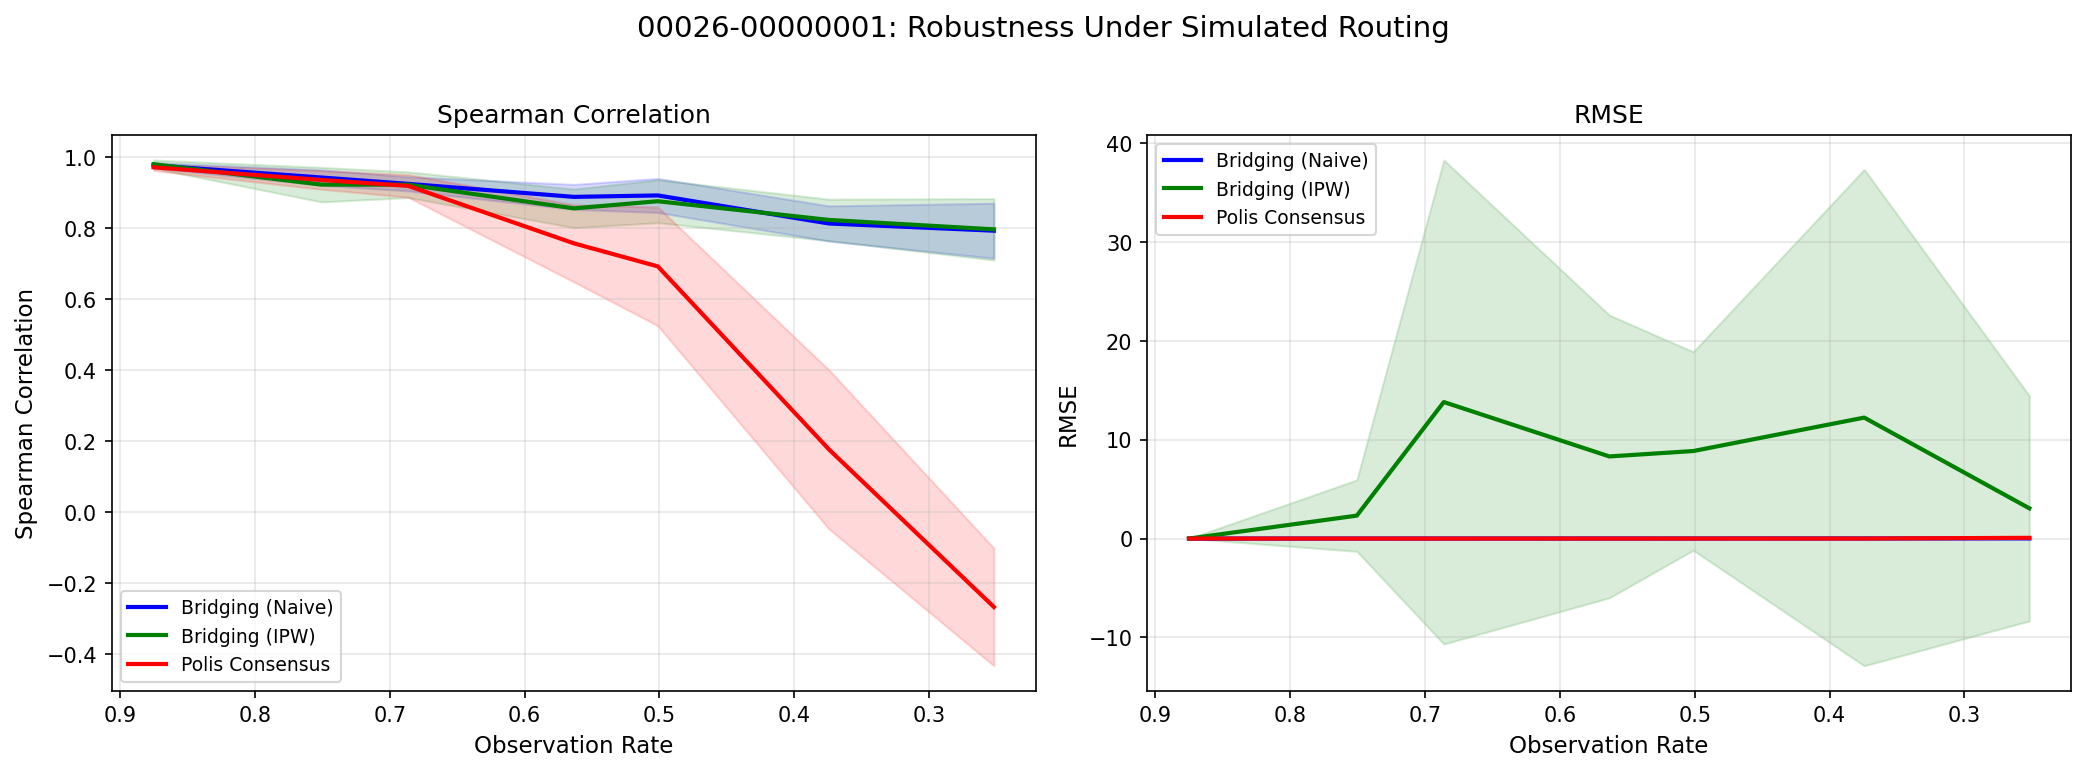
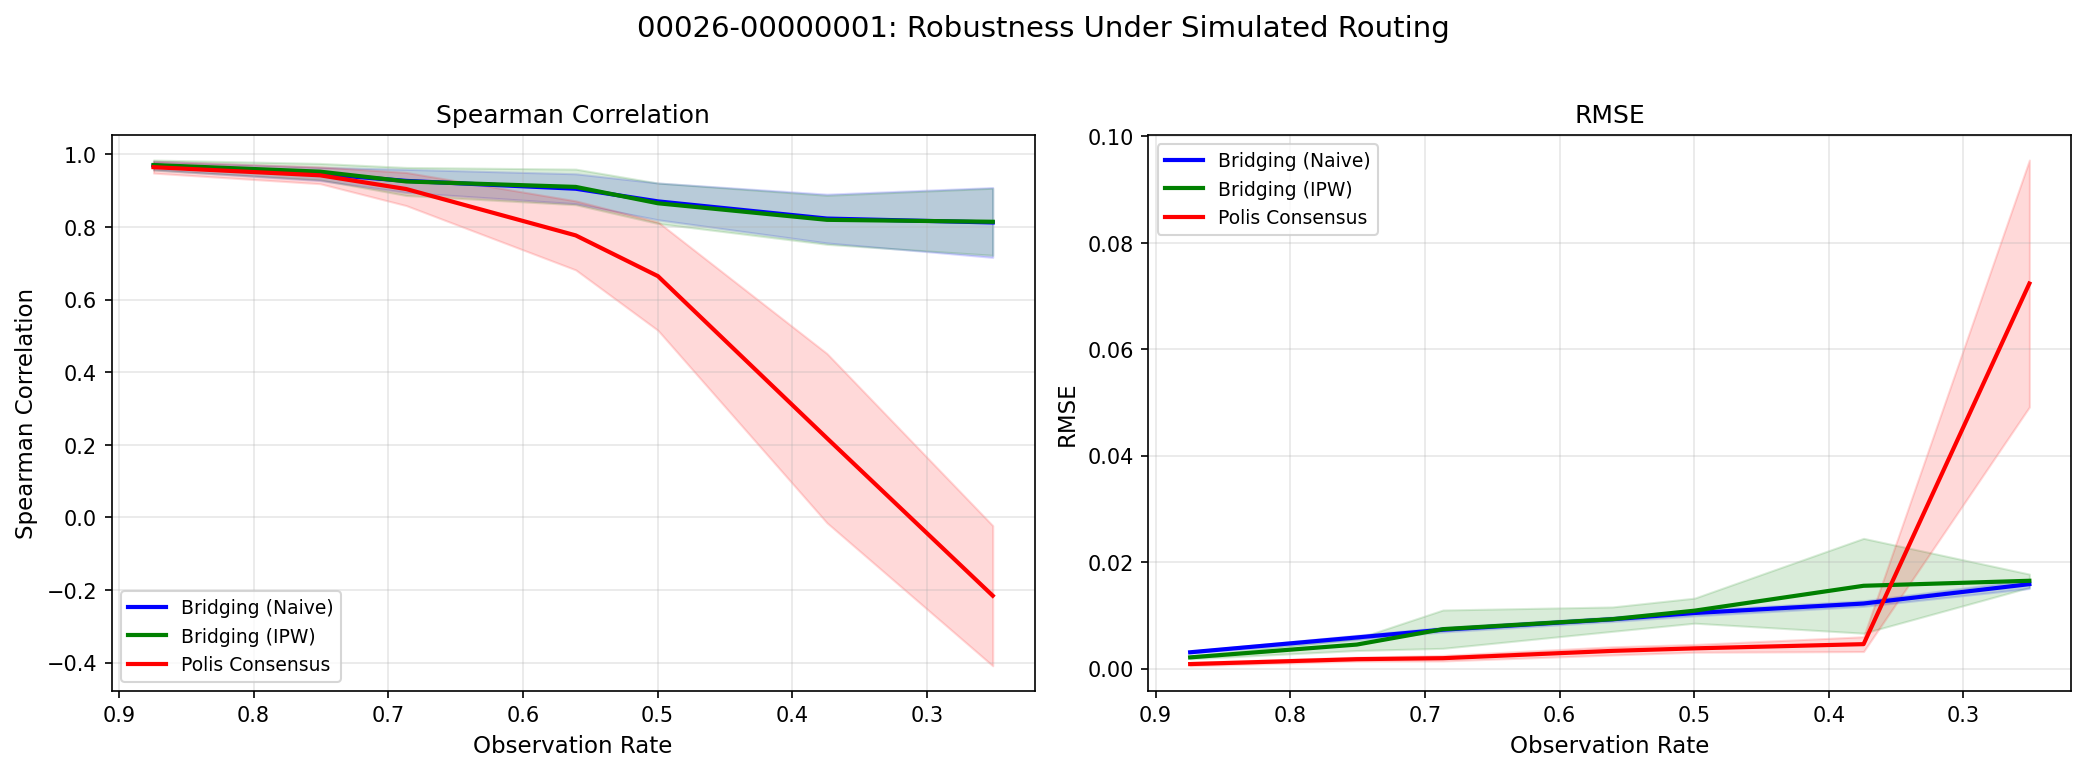
Document Polis routing simulation in Experiment 5 README
Explain what's real (priority formula, PCA, PPS sampling) vs synthetic
(session lengths). Detail the exact Polis priority formula, simulation
loop, variance sources, and differences from production Polis.

diff --git a/experiment_5/README.md b/experiment_5/README.md
@@ -70,13 +70,68 @@ Uses log-sum-exp to avoid underflow: `log(consensus) = Σ_g log(P_g)`
 
 Implemented in [`robustness_simulated.py`](robustness_simulated.py).
 
-For each voter:
-1. Compute PCA extremeness on current observed matrix
-2. Compute priorities using Pol.is formula (reuses [`experiment_2/priority.py`](../experiment_2/priority.py))
-3. Sample k comments via PPS (probability proportional to priority) without replacement
-4. Estimate inclusion probabilities via Monte Carlo (500 samples)
+### What's Real vs Synthetic
 
-This creates realistic informative missingness matching actual Pol.is behavior.
+| Component | Source | Notes |
+|-----------|--------|-------|
+| **Priority formula** | Real Polis | Exact formula from [conversation.clj](https://github.com/compdemocracy/polis/blob/edge/math/src/polismath/math/conversation.clj) |
+| **PCA extremeness** | Real Polis | Power iteration PCA matching [pca.clj](https://github.com/compdemocracy/polis/blob/edge/math/src/polismath/math/pca.clj) |
+| **Sampling mechanism** | Real Polis | PPS without replacement |
+| **Session lengths** | Synthetic | Uniform distribution around target observation rate |
+
+### Polis Priority Formula
+
+From [`experiment_2/priority.py`](../experiment_2/priority.py), matching the production Polis source:
+
+```
+importance = (1 - p) × (E + 1) × a
+priority = [importance × (1 + 8 × 2^(-S/5))]²
+```
+
+Where (with Laplace smoothing):
+- `a = (A + 1) / (S + 2)` — smoothed agree rate
+- `p = (P + 1) / (S + 2)` — smoothed pass rate (P=0 in binary setting)
+- `E` — PCA extremeness (L2 norm of comment's loading on first 2 PCs)
+- `S` — total votes on this comment
+
+The `(1 + 8 × 2^(-S/5))` term is an exploration bonus that favors comments with fewer votes.
+
+### Simulation Loop
+
+For each voter in sequence:
+
+1. **Compute PCA extremeness** on the current observed matrix (updates as data accumulates)
+2. **Compute priorities** for all comments using the formula above
+3. **Sample k comments** via PPS (probability proportional to priority) without replacement
+4. **Estimate inclusion probabilities** via Monte Carlo (500 samples) for IPW correction
+5. **Record votes** and update observed matrix for next voter
+
+### Session Length Distribution
+
+Session lengths (how many comments each voter sees) are **synthetic**, not from real Polis data:
+
+```python
+# For target observation rate (e.g., 50%):
+target_k = int(n_items * 0.5)  # e.g., 8 for 16 items
+distribution = [target_k - 2, ..., target_k + 2]  # e.g., [6, 7, 8, 9, 10]
+```
+
+Each voter's session length is drawn uniformly from this range.
+
+### Sources of Variance Between Trials
+
+1. **Stochastic PPS sampling**: Even with identical priorities, different comments are sampled each draw
+2. **Random session lengths**: k_votes varies per voter within the target range
+3. **Sequential dependency**: Early voters' responses change PCA extremeness for later voters, creating cascading effects
+
+### Differences from Production Polis
+
+| Aspect | Production Polis | Our Simulation |
+|--------|-----------------|----------------|
+| Session lengths | User-controlled (vote until bored) | Synthetic distribution |
+| Priority updates | Real-time streaming | After each simulated voter |
+| Pass votes | Supported (P > 0) | Binary only (P = 0) |
+| k-smoothing | Buffer of 4 before switching k | Single k selection |
 
 ## Data
 

diff --git a/experiment_5/plots/00026-00000001_simulated/summary_table.md b/experiment_5/plots/00026-00000001_simulated/summary_table.md
@@ -4,13 +4,13 @@
 
 | Obs Rate | Naive Spearman | IPW Spearman | Polis Spearman | Naive RMSE | IPW RMSE | Polis RMSE |
 |----------|----------------|--------------|----------------|------------|----------|------------|
-| 88% | 0.976 (0.008) | 0.980 (0.012) | 0.971 (0.009) | 0.0030 | 0.0019 | 0.0007 |
-| 75% | 0.942 (0.022) | 0.922 (0.049) | 0.935 (0.026) | 0.0058 | 2.3223 | 0.0017 |
-| 69% | 0.924 (0.020) | 0.922 (0.036) | 0.918 (0.032) | 0.0071 | 13.8077 | 0.0016 |
-| 56% | 0.887 (0.035) | 0.855 (0.054) | 0.756 (0.109) | 0.0093 | 8.3065 | 0.0036 |
-| 50% | 0.892 (0.048) | 0.875 (0.061) | 0.692 (0.167) | 0.0105 | 8.8533 | 0.0039 |
-| 37% | 0.812 (0.050) | 0.823 (0.059) | 0.176 (0.224) | 0.0123 | 12.2349 | 0.0044 |
-| 25% | 0.792 (0.078) | 0.796 (0.087) | -0.268 (0.166) | 0.0157 | 3.0609 | 0.0767 |
+| 87% | 0.969 (0.012) | 0.971 (0.014) | 0.965 (0.016) | 0.0030 | 0.0021 | 0.0008 |
+| 75% | 0.946 (0.018) | 0.953 (0.023) | 0.942 (0.023) | 0.0058 | 0.0045 | 0.0018 |
+| 69% | 0.927 (0.032) | 0.926 (0.039) | 0.905 (0.046) | 0.0073 | 0.0074 | 0.0019 |
+| 56% | 0.906 (0.041) | 0.911 (0.049) | 0.777 (0.095) | 0.0093 | 0.0093 | 0.0033 |
+| 50% | 0.871 (0.051) | 0.865 (0.056) | 0.665 (0.149) | 0.0104 | 0.0109 | 0.0038 |
+| 37% | 0.823 (0.067) | 0.820 (0.068) | 0.218 (0.233) | 0.0122 | 0.0155 | 0.0046 |
+| 25% | 0.813 (0.096) | 0.814 (0.092) | -0.216 (0.193) | 0.0159 | 0.0165 | 0.0723 |
 
 ## Legend
 - **Obs Rate**: Actual observation rate achieved under simulated routing
